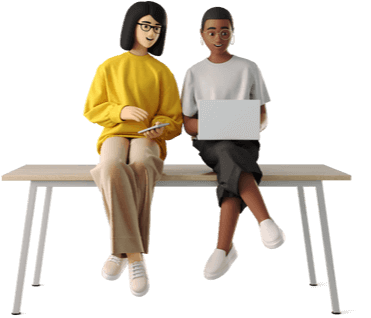
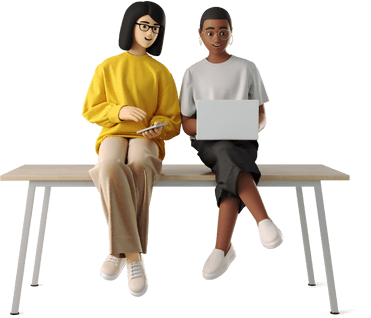
added correct images to assigments page

diff --git a/frontend/src/pages/assignments/hero/Hero.tsx b/frontend/src/pages/assignments/hero/Hero.tsx
@@ -1,5 +1,7 @@
 // Project files
-import ImageHero from "assets/assignments-hero.avif";
+import ImageMobile from "assets/assignments-hero-mobile.avif";
+import ImageDesktop from "assets/assignments-hero.avif";
+import ImageHero from "assets/assignments-hero.png";
 import "./hero.css";
 
 export default function Hero() {
@@ -18,15 +20,21 @@ export default function Hero() {
         </p>
       </div>
       <div className="media">
-        {/* fetchPriority so the hero image gets downloaded before the company logos in the assigment cards */}
-        <img
-          className="image"
-          src={ImageHero}
-          alt="A woman and a man sitting on a table looking at a laptop"
-          // @ts-ignore
-          // fetchpriority in lowercase is the correct way to write this atribute (https://github.com/facebook/react/issues/25682)
-          fetchpriority="high"
-        />
+        <picture>
+          <source srcSet={ImageDesktop} width="280" height="240" media="(min-width: 700px)" />
+          <source srcSet={ImageMobile} width="154" height="132" />
+          {/* shared atrributes like className, alt, and fetchpriority, and fallback in case browser does not support AVIF */}
+          <img
+            alt="A woman and a man sitting on a table looking at a laptop"
+            className="image"
+            src={ImageHero}
+            width="371"
+            height="318"
+            // @ts-ignore
+            // fetchpriority in lowercase is the correct way to write this atribute (https://github.com/facebook/react/issues/25682)
+            fetchpriority="high"
+          />
+        </picture>
       </div>
     </header>
   );

diff --git a/frontend/src/pages/assignments/hero/hero.css b/frontend/src/pages/assignments/hero/hero.css
@@ -6,20 +6,15 @@
   .content {
     display: grid;
     gap: var(--space-small);
-  }
 
-  h1 {
-    line-height: 0.7; /* to force the 2 lines to touch each other. This is a stylistic decision! */
-    letter-spacing: -1.5px;
-  }
+    h1 {
+      line-height: 0.7; /* to force the 2 lines to touch each other. This is a stylistic decision! */
+      letter-spacing: -1.5px;
+    }
 
-  .subtitle {
-    color: var(--color-gray);
-  }
-
-  img {
-    aspect-ratio: 7/6; /* to avoid layout-shift during loading */
-    height: 135px;
+    .subtitle {
+      color: var(--color-gray);
+    }
   }
 }
 
@@ -31,23 +26,19 @@
 
     .content {
       gap: var(--space-medium);
+
+      h1 {
+        font-size: 72px;
+        letter-spacing: -3.5px;
+      }
+
+      .subtitle {
+        font-size: 28px;
+      }
     }
 
     .media {
       text-align: center;
-    }
-
-    h1 {
-      font-size: 72px;
-      letter-spacing: -3.5px;
-    }
-
-    .subtitle {
-      font-size: 28px;
-    }
-
-    img {
-      height: 240px;
     }
   }
 }
